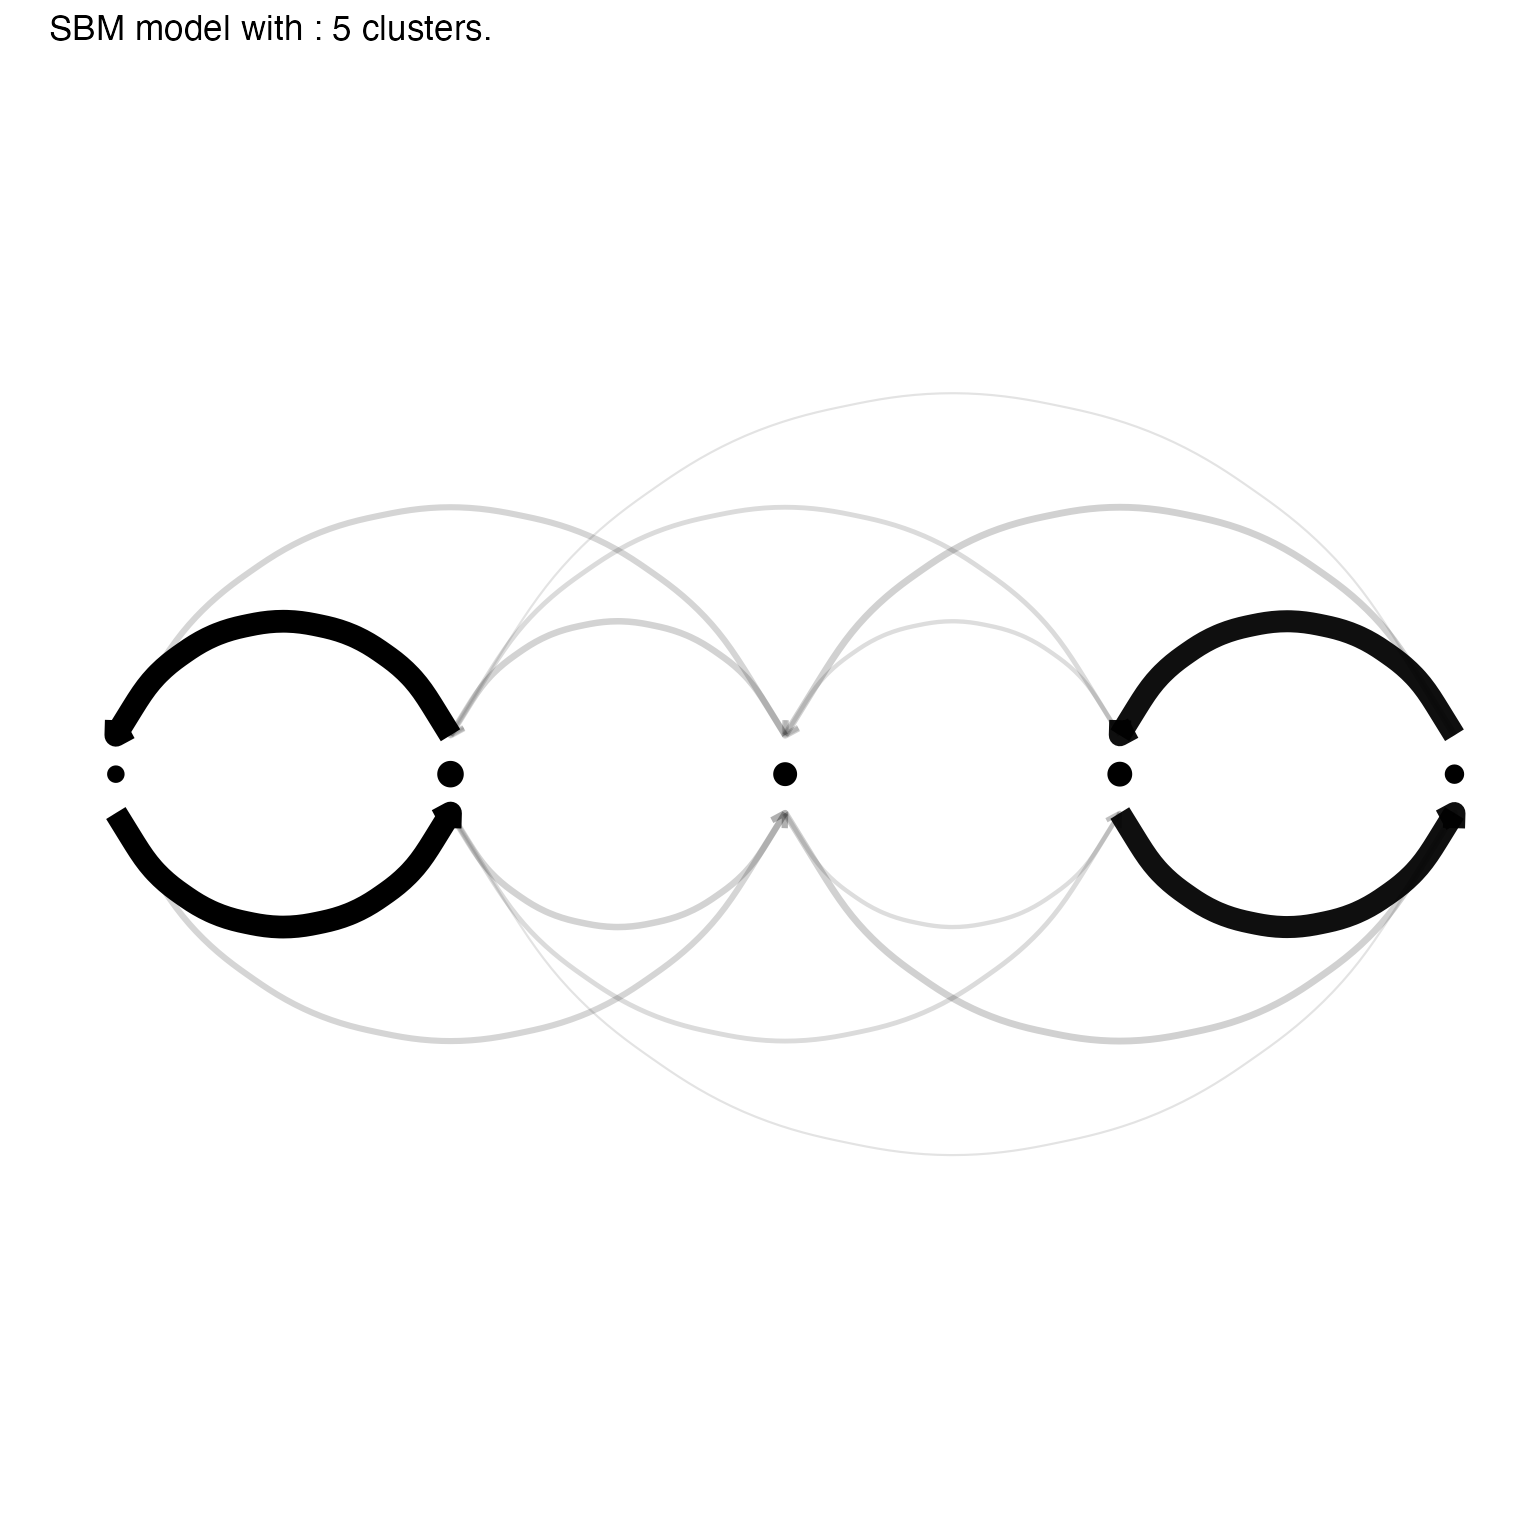
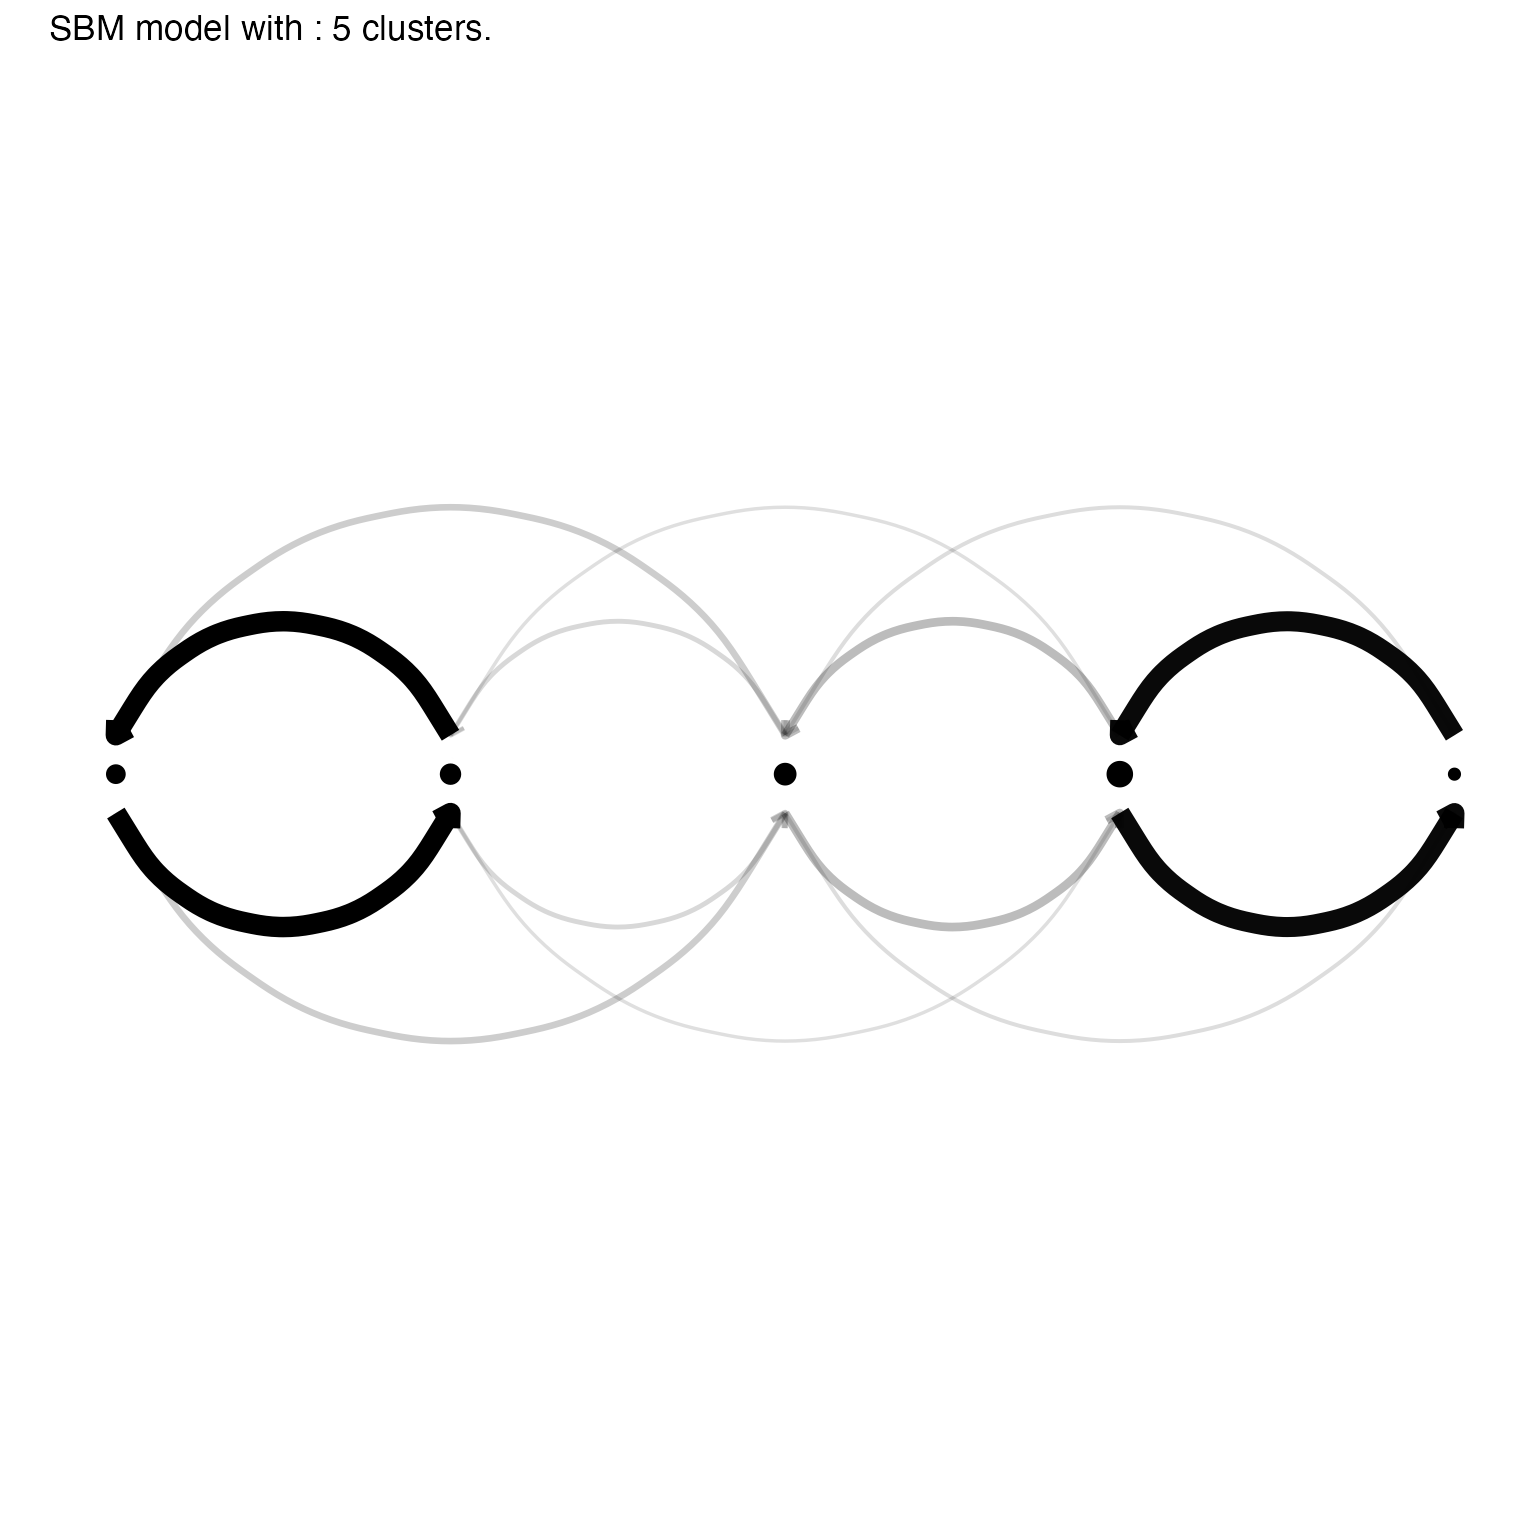
Built site for greed: 0.6.0@5567110

diff --git a/articles/greed.html b/articles/greed.html
@@ -157,8 +157,9 @@
 <span class="co">#&gt; ── <span style="font-weight: bold;">Fitting a guess DCSBM model</span> ──</span>
 <span class="co">#&gt; </span>
 <span class="co">#&gt; ℹ Initializing a population of 20 solutions.</span>
-<span class="co">#&gt; ℹ Generation 1 : best solution with an ICL of -1346 and 4 clusters.</span>
+<span class="co">#&gt; ℹ Generation 1 : best solution with an ICL of -1353 and 5 clusters.</span>
 <span class="co">#&gt; ℹ Generation 2 : best solution with an ICL of -1346 and 4 clusters.</span>
+<span class="co">#&gt; ℹ Generation 3 : best solution with an ICL of -1346 and 4 clusters.</span>
 <span class="co">#&gt; ── <span style="font-weight: bold;">Final clustering</span> ──</span>
 <span class="co">#&gt; </span>
 <span class="co">#&gt; ── Clustering with a DCSBM model 3 clusters and an ICL of -1345</span></code></pre></div>
@@ -171,7 +172,7 @@
 <span class="co">#&gt; </span>
 <span class="co">#&gt; ── <span style="font-weight: bold;">Final clustering</span> ──</span>
 <span class="co">#&gt; </span>
-<span class="co">#&gt; ── Clustering with a SBM model 5 clusters and an ICL of -1252</span></code></pre></div>
+<span class="co">#&gt; ── Clustering with a SBM model 5 clusters and an ICL of -1256</span></code></pre></div>
 </div>
 <div class="section level3">
 <h3 id="result-analysis">Result analysis<a class="anchor" aria-label="anchor" href="#result-analysis"></a>
@@ -191,25 +192,25 @@
 <tbody>
 <tr class="odd">
 <td align="left">c</td>
-<td align="right">8</td>
-<td align="right">34</td>
-<td align="right">6</td>
-<td align="right">1</td>
 <td align="right">0</td>
+<td align="right">1</td>
+<td align="right">7</td>
+<td align="right">35</td>
+<td align="right">6</td>
 </tr>
 <tr class="even">
 <td align="left">l</td>
-<td align="right">0</td>
-<td align="right">0</td>
+<td align="right">10</td>
+<td align="right">28</td>
 <td align="right">5</td>
-<td align="right">29</td>
-<td align="right">9</td>
+<td align="right">0</td>
+<td align="right">0</td>
 </tr>
 <tr class="odd">
 <td align="left">n</td>
 <td align="right">0</td>
-<td align="right">3</td>
-<td align="right">8</td>
+<td align="right">2</td>
+<td align="right">9</td>
 <td align="right">2</td>
 <td align="right">0</td>
 </tr>
@@ -220,15 +221,15 @@
 <span class="co">#&gt; [1] 5</span>
 <span class="fu"><a href="https://rdrr.io/r/stats/coef.html" class="external-link">coef</a></span><span class="op">(</span><span class="va">sol</span><span class="op">)</span>
 <span class="co">#&gt; $pi</span>
-<span class="co">#&gt; [1] 0.07619048 0.35238095 0.18095238 0.30476190 0.08571429</span>
+<span class="co">#&gt; [1] 0.09523810 0.29523810 0.20000000 0.35238095 0.05714286</span>
 <span class="co">#&gt; </span>
 <span class="co">#&gt; $thetakl</span>
-<span class="co">#&gt;            [,1]        [,2]        [,3]        [,4]        [,5]</span>
-<span class="co">#&gt; [1,] 0.71428571 0.371621622 0.052631579 0.000000000 0.000000000</span>
-<span class="co">#&gt; [2,] 0.37162162 0.082582583 0.012802276 0.004222973 0.003003003</span>
-<span class="co">#&gt; [3,] 0.05263158 0.012802276 0.251461988 0.006578947 0.058479532</span>
-<span class="co">#&gt; [4,] 0.00000000 0.004222973 0.006578947 0.094758065 0.357638889</span>
-<span class="co">#&gt; [5,] 0.00000000 0.003003003 0.058479532 0.357638889 0.722222222</span></code></pre></div>
+<span class="co">#&gt;            [,1]        [,2]       [,3]        [,4]       [,5]</span>
+<span class="co">#&gt; [1,] 0.71111111 0.338709677 0.05238095 0.000000000 0.00000000</span>
+<span class="co">#&gt; [2,] 0.33870968 0.083870968 0.00921659 0.002615519 0.00000000</span>
+<span class="co">#&gt; [3,] 0.05238095 0.009216590 0.21428571 0.024453024 0.03174603</span>
+<span class="co">#&gt; [4,] 0.00000000 0.002615519 0.02445302 0.097597598 0.45495495</span>
+<span class="co">#&gt; [5,] 0.00000000 0.000000000 0.03174603 0.454954955 0.73333333</span></code></pre></div>
 </div>
 <div class="section level3">
 <h3 id="inspecting-the-hierarchy">Inspecting the hierarchy<a class="anchor" aria-label="anchor" href="#inspecting-the-hierarchy"></a>
@@ -253,21 +254,21 @@
 <tbody>
 <tr class="odd">
 <td align="left">c</td>
-<td align="right">8</td>
-<td align="right">40</td>
 <td align="right">1</td>
+<td align="right">42</td>
+<td align="right">6</td>
 </tr>
 <tr class="even">
 <td align="left">l</td>
-<td align="right">0</td>
-<td align="right">5</td>
 <td align="right">38</td>
+<td align="right">5</td>
+<td align="right">0</td>
 </tr>
 <tr class="odd">
 <td align="left">n</td>
-<td align="right">0</td>
-<td align="right">11</td>
 <td align="right">2</td>
+<td align="right">11</td>
+<td align="right">0</td>
 </tr>
 </tbody>
 </table>

diff --git a/reference/MoR.html b/reference/MoR.html
@@ -157,7 +157,7 @@ a <code>MoR-class</code> object</p>
 <span class="r-out co"><span class="r-pr">#&gt;</span> An object of class "MoRPrior"</span>
 <span class="r-out co"><span class="r-pr">#&gt;</span> Slot "formula":</span>
 <span class="r-out co"><span class="r-pr">#&gt;</span> y ~ x1 + x2</span>
-<span class="r-out co"><span class="r-pr">#&gt;</span> &lt;environment: 0x7fc69f2042f0&gt;</span>
+<span class="r-out co"><span class="r-pr">#&gt;</span> &lt;environment: 0x7f9a8bfb7cc8&gt;</span>
 <span class="r-out co"><span class="r-pr">#&gt;</span> </span>
 <span class="r-out co"><span class="r-pr">#&gt;</span> Slot "tau":</span>
 <span class="r-out co"><span class="r-pr">#&gt;</span> [1] 0.001</span>
@@ -173,7 +173,7 @@ a <code>MoR-class</code> object</p>
 <span class="r-out co"><span class="r-pr">#&gt;</span> An object of class "MoRPrior"</span>
 <span class="r-out co"><span class="r-pr">#&gt;</span> Slot "formula":</span>
 <span class="r-out co"><span class="r-pr">#&gt;</span> y ~ x1 + x2</span>
-<span class="r-out co"><span class="r-pr">#&gt;</span> &lt;environment: 0x7fc69f2042f0&gt;</span>
+<span class="r-out co"><span class="r-pr">#&gt;</span> &lt;environment: 0x7f9a8bfb7cc8&gt;</span>
 <span class="r-out co"><span class="r-pr">#&gt;</span> </span>
 <span class="r-out co"><span class="r-pr">#&gt;</span> Slot "tau":</span>
 <span class="r-out co"><span class="r-pr">#&gt;</span> [1] 0.001</span>
@@ -189,7 +189,7 @@ a <code>MoR-class</code> object</p>
 <span class="r-out co"><span class="r-pr">#&gt;</span> An object of class "MoRPrior"</span>
 <span class="r-out co"><span class="r-pr">#&gt;</span> Slot "formula":</span>
 <span class="r-out co"><span class="r-pr">#&gt;</span> cbind(y1, y2) ~ x1 + x2</span>
-<span class="r-out co"><span class="r-pr">#&gt;</span> &lt;environment: 0x7fc69f2042f0&gt;</span>
+<span class="r-out co"><span class="r-pr">#&gt;</span> &lt;environment: 0x7f9a8bfb7cc8&gt;</span>
 <span class="r-out co"><span class="r-pr">#&gt;</span> </span>
 <span class="r-out co"><span class="r-pr">#&gt;</span> Slot "tau":</span>
 <span class="r-out co"><span class="r-pr">#&gt;</span> [1] 0.001</span>
@@ -205,7 +205,7 @@ a <code>MoR-class</code> object</p>
 <span class="r-out co"><span class="r-pr">#&gt;</span> An object of class "MoR"</span>
 <span class="r-out co"><span class="r-pr">#&gt;</span> Slot "formula":</span>
 <span class="r-out co"><span class="r-pr">#&gt;</span> y ~ x1 + x2</span>
-<span class="r-out co"><span class="r-pr">#&gt;</span> &lt;environment: 0x7fc69f2042f0&gt;</span>
+<span class="r-out co"><span class="r-pr">#&gt;</span> &lt;environment: 0x7f9a8bfb7cc8&gt;</span>
 <span class="r-out co"><span class="r-pr">#&gt;</span> </span>
 <span class="r-out co"><span class="r-pr">#&gt;</span> Slot "tau":</span>
 <span class="r-out co"><span class="r-pr">#&gt;</span> [1] 0.1</span>
@@ -224,7 +224,7 @@ a <code>MoR-class</code> object</p>
 <span class="r-out co"><span class="r-pr">#&gt;</span> An object of class "MoR"</span>
 <span class="r-out co"><span class="r-pr">#&gt;</span> Slot "formula":</span>
 <span class="r-out co"><span class="r-pr">#&gt;</span> y ~ x1 + x2</span>
-<span class="r-out co"><span class="r-pr">#&gt;</span> &lt;environment: 0x7fc69f2042f0&gt;</span>
+<span class="r-out co"><span class="r-pr">#&gt;</span> &lt;environment: 0x7f9a8bfb7cc8&gt;</span>
 <span class="r-out co"><span class="r-pr">#&gt;</span> </span>
 <span class="r-out co"><span class="r-pr">#&gt;</span> Slot "tau":</span>
 <span class="r-out co"><span class="r-pr">#&gt;</span> [1] 0.1</span>
@@ -243,7 +243,7 @@ a <code>MoR-class</code> object</p>
 <span class="r-out co"><span class="r-pr">#&gt;</span> An object of class "MoR"</span>
 <span class="r-out co"><span class="r-pr">#&gt;</span> Slot "formula":</span>
 <span class="r-out co"><span class="r-pr">#&gt;</span> cbind(y1, y2) ~ x1 + x2</span>
-<span class="r-out co"><span class="r-pr">#&gt;</span> &lt;environment: 0x7fc69f2042f0&gt;</span>
+<span class="r-out co"><span class="r-pr">#&gt;</span> &lt;environment: 0x7f9a8bfb7cc8&gt;</span>
 <span class="r-out co"><span class="r-pr">#&gt;</span> </span>
 <span class="r-out co"><span class="r-pr">#&gt;</span> Slot "tau":</span>
 <span class="r-out co"><span class="r-pr">#&gt;</span> [1] 0.1</span>

diff --git a/reference/greed.html b/reference/greed.html
@@ -153,20 +153,9 @@ provides sampling functions for all the implemented DLVMs.</p>
     <h2>Examples</h2>
     <div class="sourceCode"><pre class="sourceCode r"><code><span class="r-in"><span class="va">sbm</span> <span class="op">&lt;-</span> <span class="fu"><a href="rsbm.html">rsbm</a></span><span class="op">(</span><span class="fl">50</span>, <span class="fu"><a href="https://rdrr.io/r/base/c.html" class="external-link">c</a></span><span class="op">(</span><span class="fl">0.5</span>, <span class="fl">0.5</span><span class="op">)</span>, <span class="fu"><a href="https://rdrr.io/r/base/diag.html" class="external-link">diag</a></span><span class="op">(</span><span class="fl">2</span><span class="op">)</span> <span class="op">*</span> <span class="fl">0.1</span> <span class="op">+</span> <span class="fl">0.01</span><span class="op">)</span></span>
 <span class="r-in"><span class="va">sol</span> <span class="op">&lt;-</span> <span class="fu">greed</span><span class="op">(</span><span class="va">sbm</span><span class="op">$</span><span class="va">x</span>, model <span class="op">=</span> <span class="fu"><a href="Sbm.html">Sbm</a></span><span class="op">(</span><span class="op">)</span><span class="op">)</span></span>
-<span class="r-msg co"><span class="r-pr">#&gt;</span> </span>
-<span class="r-msg co"><span class="r-pr">#&gt;</span> ── <span style="font-weight: bold;">Fitting a guess SBM model</span> ──</span>
-<span class="r-msg co"><span class="r-pr">#&gt;</span> </span>
-<span class="r-msg co"><span class="r-pr">#&gt;</span> ℹ Initializing a population of 20 solutions.</span>
-<span class="r-msg co"><span class="r-pr">#&gt;</span> ℹ Generation 1 : best solution with an ICL of -557 and 3 clusters.</span>
-<span class="r-msg co"><span class="r-pr">#&gt;</span> ℹ Generation 2 : best solution with an ICL of -557 and 3 clusters.</span>
-<span class="r-msg co"><span class="r-pr">#&gt;</span> ── <span style="font-weight: bold;">Final clustering</span> ──</span>
-<span class="r-msg co"><span class="r-pr">#&gt;</span> </span>
-<span class="r-msg co"><span class="r-pr">#&gt;</span> ── Clustering with a SBM model 2 clusters and an ICL of -549 </span>
+<span class="r-err co"><span class="r-pr">#&gt;</span> <span class="error">Error:</span> An SBM model expect a square adjacency matrix.</span>
 <span class="r-in"><span class="fu"><a href="https://rdrr.io/r/base/table.html" class="external-link">table</a></span><span class="op">(</span><span class="va">sbm</span><span class="op">$</span><span class="va">cl</span>,<span class="fu"><a href="clustering.html">clustering</a></span><span class="op">(</span><span class="va">sol</span><span class="op">)</span><span class="op">)</span></span>
-<span class="r-out co"><span class="r-pr">#&gt;</span>    </span>
-<span class="r-out co"><span class="r-pr">#&gt;</span>      1  2</span>
-<span class="r-out co"><span class="r-pr">#&gt;</span>   1 24  1</span>
-<span class="r-out co"><span class="r-pr">#&gt;</span>   2  0 25</span>
+<span class="r-err co"><span class="r-pr">#&gt;</span> <span class="error">Error in h(simpleError(msg, call)):</span> error in evaluating the argument 'fit' in selecting a method for function 'clustering': object 'sol' not found</span>
 </code></pre></div>
     </div>
   </div>

diff --git a/reference/MI.html b/reference/MI.html
@@ -113,7 +113,7 @@
     <div class="sourceCode"><pre class="sourceCode r"><code><span class="r-in"><span class="va">cl1</span> <span class="op">&lt;-</span> <span class="fu"><a href="https://rdrr.io/r/base/sample.html" class="external-link">sample</a></span><span class="op">(</span><span class="fl">2</span>, <span class="fl">500</span>, replace <span class="op">=</span> <span class="cn">TRUE</span><span class="op">)</span></span>
 <span class="r-in"><span class="va">cl2</span> <span class="op">&lt;-</span> <span class="fu"><a href="https://rdrr.io/r/base/sample.html" class="external-link">sample</a></span><span class="op">(</span><span class="fl">2</span>, <span class="fl">500</span>, replace <span class="op">=</span> <span class="cn">TRUE</span><span class="op">)</span></span>
 <span class="r-in"><span class="fu">MI</span><span class="op">(</span><span class="va">cl1</span>, <span class="va">cl2</span><span class="op">)</span></span>
-<span class="r-out co"><span class="r-pr">#&gt;</span> [1] 9.337371e-06</span>
+<span class="r-out co"><span class="r-pr">#&gt;</span> [1] 1.154318e-05</span>
 </code></pre></div>
     </div>
   </div>

diff --git a/reference/NMI.html b/reference/NMI.html
@@ -113,7 +113,7 @@
     <div class="sourceCode"><pre class="sourceCode r"><code><span class="r-in"><span class="va">cl1</span> <span class="op">&lt;-</span> <span class="fu"><a href="https://rdrr.io/r/base/sample.html" class="external-link">sample</a></span><span class="op">(</span><span class="fl">2</span>, <span class="fl">500</span>, replace <span class="op">=</span> <span class="cn">TRUE</span><span class="op">)</span></span>
 <span class="r-in"><span class="va">cl2</span> <span class="op">&lt;-</span> <span class="fu"><a href="https://rdrr.io/r/base/sample.html" class="external-link">sample</a></span><span class="op">(</span><span class="fl">2</span>, <span class="fl">500</span>, replace <span class="op">=</span> <span class="cn">TRUE</span><span class="op">)</span></span>
 <span class="r-in"><span class="fu">NMI</span><span class="op">(</span><span class="va">cl1</span>, <span class="va">cl2</span><span class="op">)</span></span>
-<span class="r-out co"><span class="r-pr">#&gt;</span> [1] 0.0006136067</span>
+<span class="r-out co"><span class="r-pr">#&gt;</span> [1] 0.00779747</span>
 </code></pre></div>
     </div>
   </div>

diff --git a/reference/H.html b/reference/H.html
@@ -110,7 +110,7 @@
     <h2>Examples</h2>
     <div class="sourceCode"><pre class="sourceCode r"><code><span class="r-in"><span class="va">cl</span> <span class="op">&lt;-</span> <span class="fu"><a href="https://rdrr.io/r/base/sample.html" class="external-link">sample</a></span><span class="op">(</span><span class="fl">2</span>, <span class="fl">500</span>, replace <span class="op">=</span> <span class="cn">TRUE</span><span class="op">)</span></span>
 <span class="r-in"><span class="fu">H</span><span class="op">(</span><span class="va">cl</span><span class="op">)</span></span>
-<span class="r-out co"><span class="r-pr">#&gt;</span> [1] 0.6889092</span>
+<span class="r-out co"><span class="r-pr">#&gt;</span> [1] 0.6930752</span>
 </code></pre></div>
     </div>
   </div>
